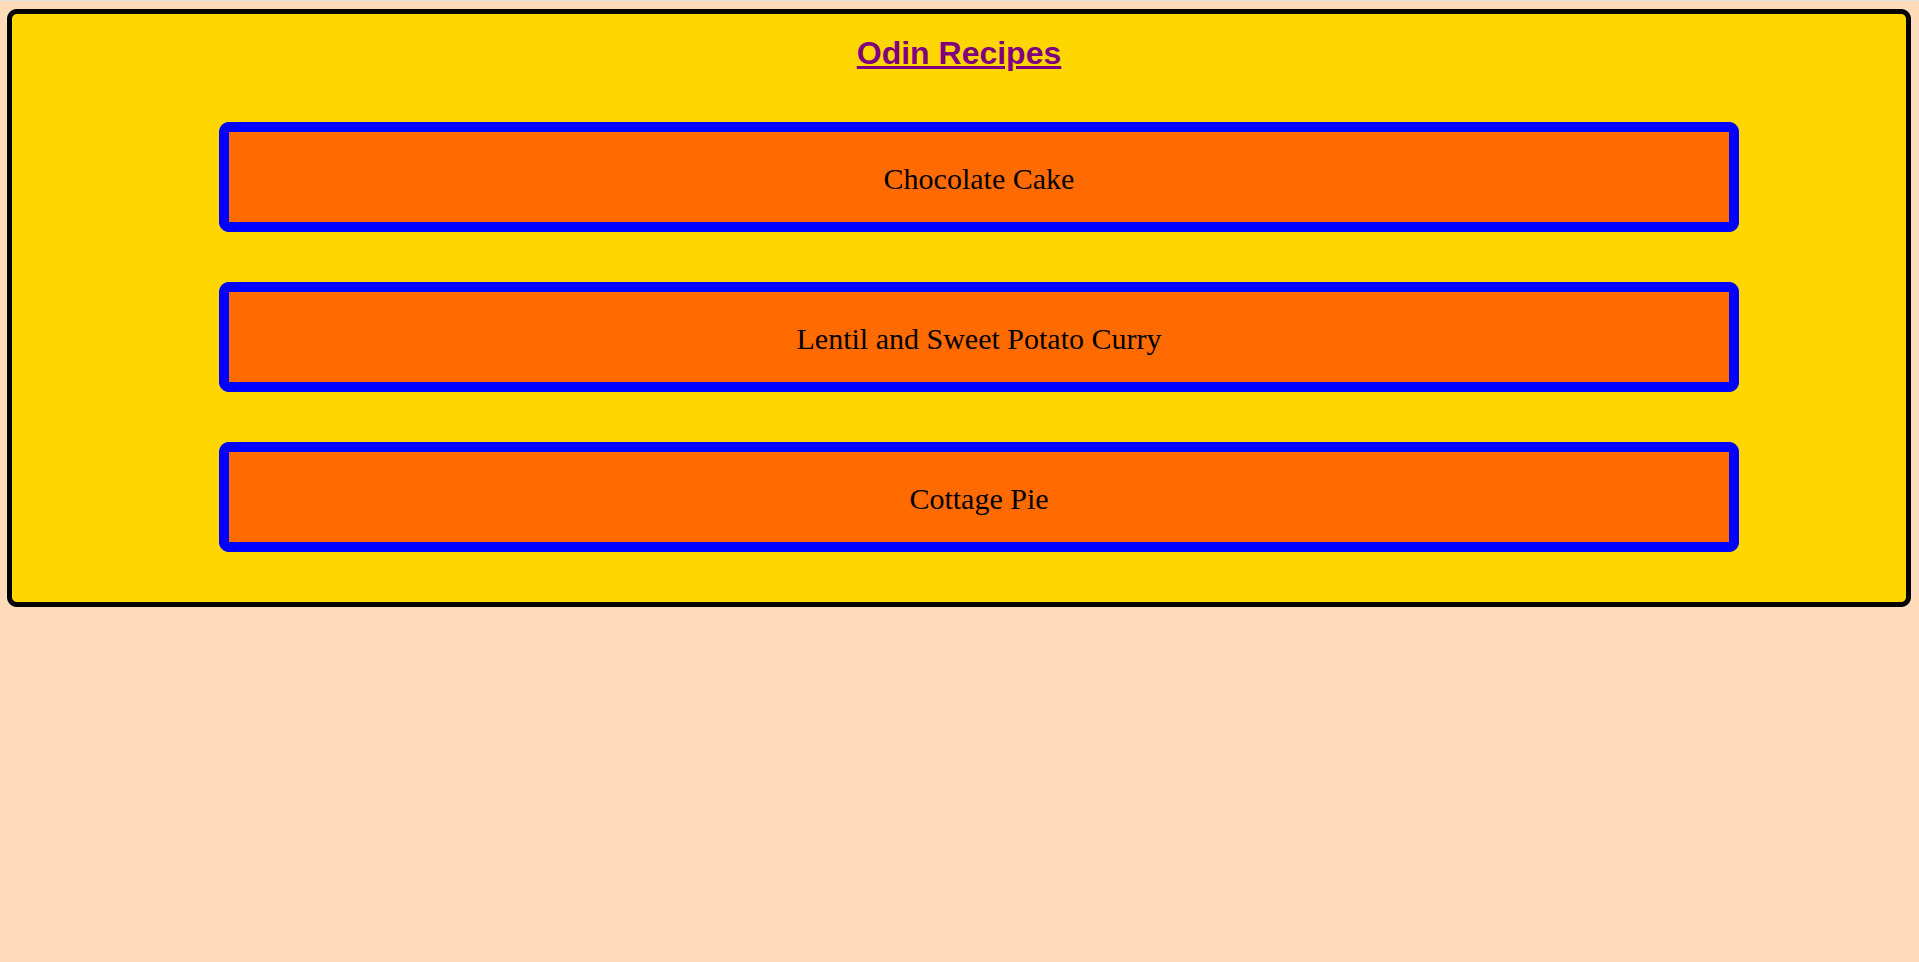
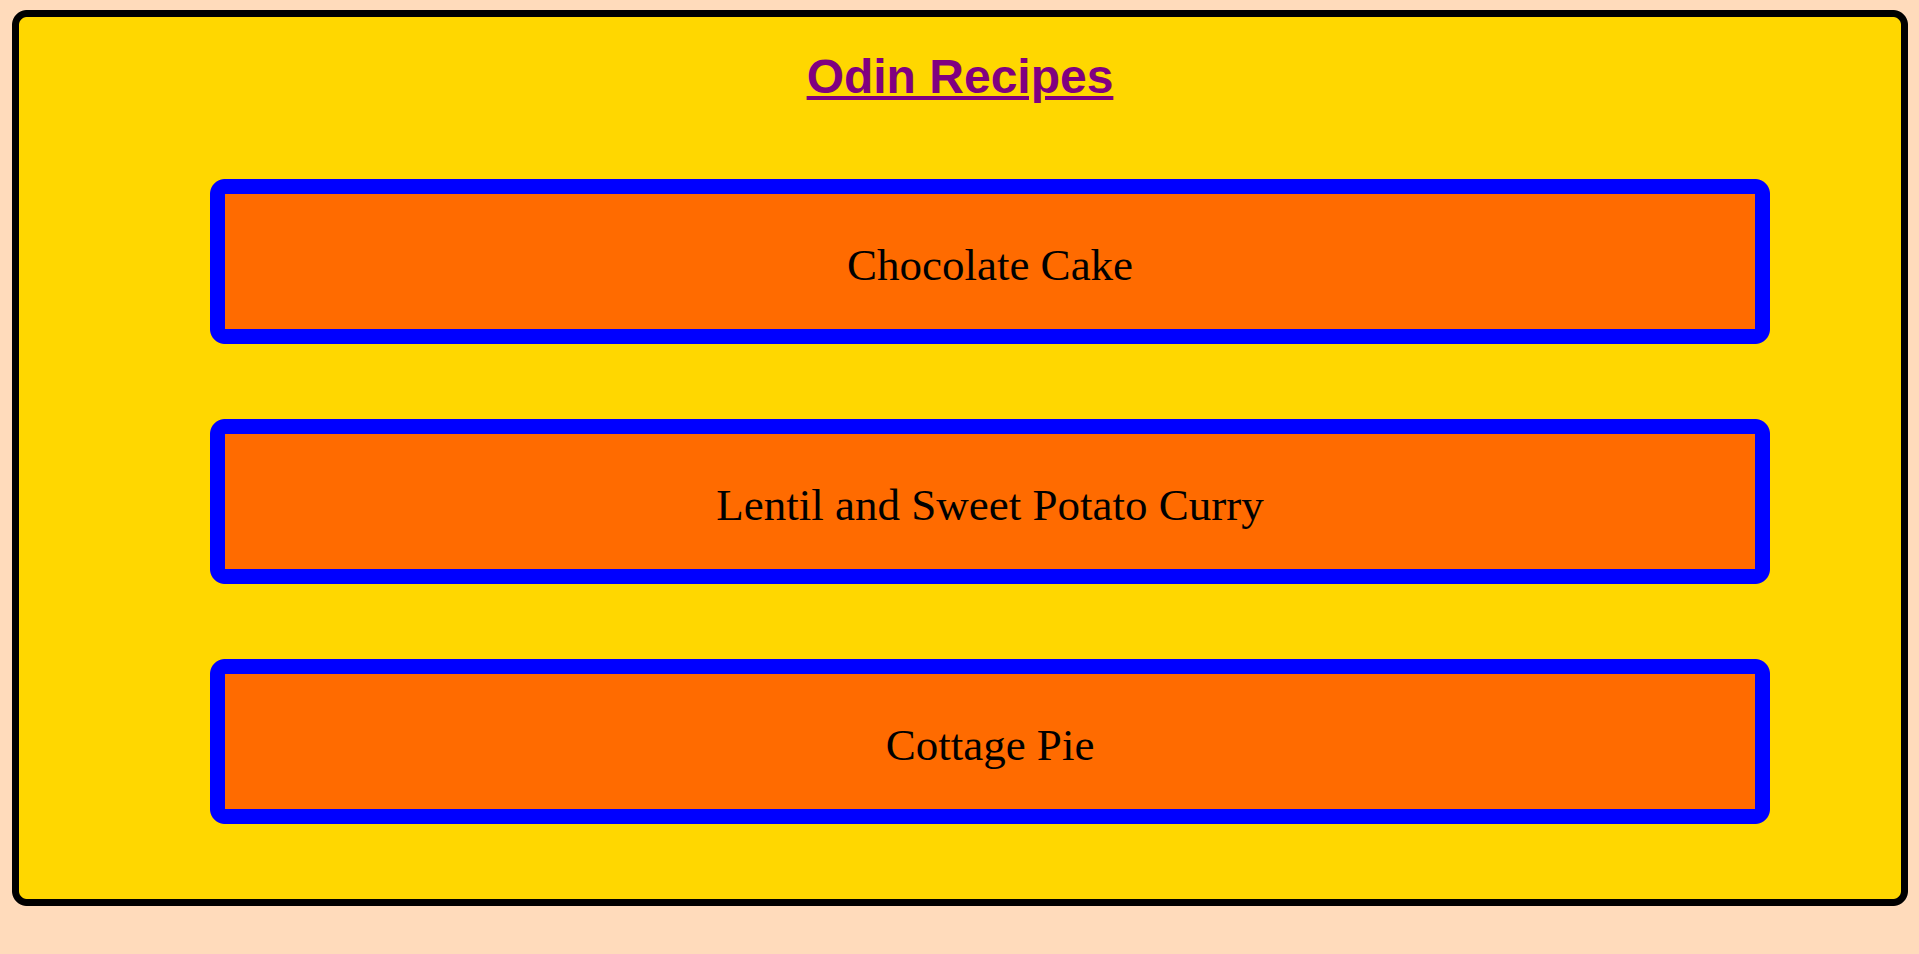
Complete link cards for odin projects
Also make sticky header work.

diff --git a/style.css b/style.css
@@ -35,6 +35,7 @@ a:hover {
 
 .header {
   position: sticky;
+  top: 0px;
   display: flex;
   justify-content: center;
   align-items: center;
@@ -88,14 +89,16 @@ a:hover {
 .cards {
   display: flex;
   flex-wrap: wrap;
+  justify-content: center;
   align-content: center;
-  align-items: center;
   gap: 2vw;
   margin: 20px 2vw;
 
   & > a {
     cursor: pointer;
     color: black;
+
+    width: 450px;
   }
 
   & > a > h3 {
@@ -103,12 +106,11 @@ a:hover {
     display: flex;
     justify-content: center;
     align-items: center;
+
     font-size: 2rem;
-
-    width: 28vw;
-    height: 14vw;
-
-    background-size: 28vw;
+    text-align: center;
+    height: 225px;
+    background-size: cover;
     background-repeat: no-repeat;
     background-color: rgba(255 255 255 / 0.6);
     background-blend-mode: lighten;
@@ -119,6 +121,7 @@ a:hover {
   & > a > p {
     text-align: center;
     margin: 1rem 0px;
+    padding: 0px 5px;
   }
 
   & > * {
@@ -126,8 +129,9 @@ a:hover {
     border-radius: 5px;
   }
     
-  .recipes h3 {
-    background-image: url("images/odin-recipes.png");
-    text-align: center;
-  }
+  .recipes h3 { background-image: url("images/odin-recipes.png"); }
+  .landing-page h3 { background-image: url("images/odin-landing-page.png"); }
+  .rock-paper-scissors h3 { background-image: url("images/odin-rock-paper-scissors.png"); }
+  .etch-a-sketch h3 { background-image: url("images/odin-etch-a-sketch.png"); }
+  .calculator h3 { background-image: url("images/odin-calculator.png"); }
 }

diff --git a/odin.html b/odin.html
@@ -30,7 +30,22 @@
       <a class="recipes" rel="noopener noreferrer" target="_blank" href="https://xavpav9.github.io/odin-recipes">
         <h3>Recipes</h3>
         <p>My first odin project. A website about 3 different recipes.</p>
-        
+      </a>
+      <a class="landing-page" rel="noopener noreferrer" target="_blank" href="https://xavpav9.github.io/odin-landing-page">
+        <h3>Landing Page</h3>
+        <p>A basic page which talks about cakes but displayed in a somewhat serious way.</p>
+      </a>
+      <a class="rock-paper-scissors" rel="noopener noreferrer" target="_blank" href="https://xavpav9.github.io/odin-rock-paper-scissors">
+        <h3>Rock Paper Scissors</h3>
+        <p>Rock Paper Scissors but against a computer - RNG!</p>
+      </a>
+      <a class="etch-a-sketch" rel="noopener noreferrer" target="_blank" href="https://xavpav9.github.io/odin-etch-a-sketch">
+        <h3>Etch-a-Sketch</h3>
+        <p>This is a drawing pad which has a few settings that you can apply to optimise your drawings.</p>
+      </a>
+      <a class="calculator" rel="noopener noreferrer" target="_blank" href="https://xavpav9.github.io/odin-calculator">
+        <h3>Calculator</h3>
+        <p>The conclusion to the odin foundations course - a calculator.</p>
       </a>
     </div>
   </body>
